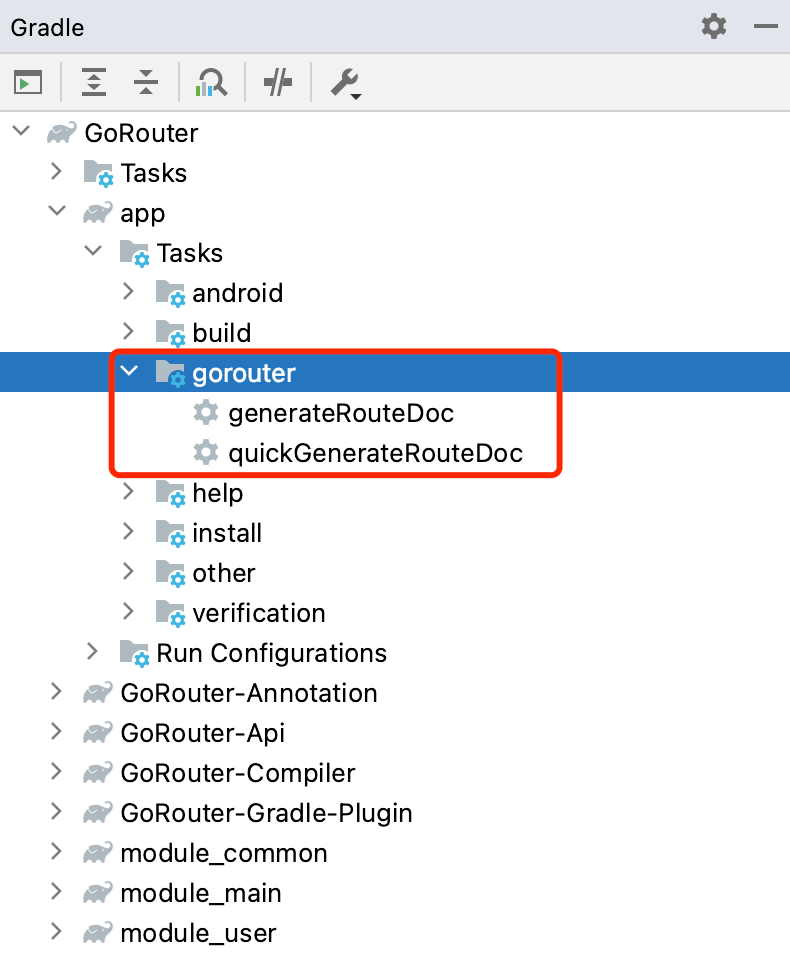
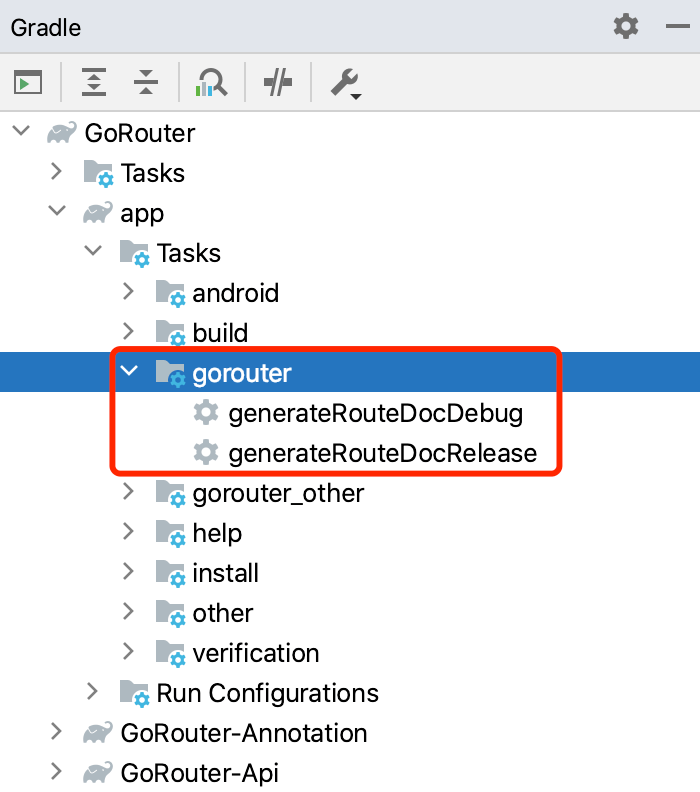
update README.md

Changed region(s): [[0.0, 0.0, 1.0, 1.0], [0.87, 0.0, 0.93, 0.0606], [0.96, 0.0, 0.99, 0.0606]]

diff --git a/GoRouter-Gradle-Plugin/src/main/kotlin/com/wyjson/router/gradle_plugin/helper/AssembleGoRouteHelperCode.kt b/GoRouter-Gradle-Plugin/src/main/kotlin/com/wyjson/router/gradle_plugin/helper/AssembleGoRouteHelperCode.kt
@@ -270,7 +270,8 @@ class AssembleGoRouteHelperCode(private val model: RouteHelperModel) {
             if (param.remark?.isNotEmpty() == true) {
                 itemSetMethod.addJavadoc(param.remark)
             }
-            itemSetMethod.addStatement("\$N.with\$L(\$S, \$N)", FIELD_CARD, param.intentType, name, name)
+            // $L withXXX
+            itemSetMethod.addStatement("\$N.\$L(\$S, \$N)", FIELD_CARD, param.intentType, name, name)
             itemSetMethod.addStatement("return this")
             builderInnerClassMethods.add(itemSetMethod.build())
         }
@@ -311,7 +312,8 @@ class AssembleGoRouteHelperCode(private val model: RouteHelperModel) {
         if (param.remark?.isNotEmpty() == true) {
             paramCode.add("\n// \$N", param.remark)
         }
-        paramCode.add("\n.with\$L(\$S, \$N)", param.intentType, name, name)
+        // $L withXXX
+        paramCode.add("\n.\$L(\$S, \$N)", param.intentType, name, name)
         buildMethod.addParameter(TypeVariableName.get(type), name)
 
         goParamCode.add("\$N, ", name)

diff --git a/GoRouter-Gradle-Plugin/src/main/kotlin/com/wyjson/router/gradle_plugin/launch/MainGradlePluginLaunch.kt b/GoRouter-Gradle-Plugin/src/main/kotlin/com/wyjson/router/gradle_plugin/launch/MainGradlePluginLaunch.kt
@@ -29,7 +29,7 @@ class MainGradlePluginLaunch : Plugin<Project> {
     override fun apply(project: Project) {
         val isApp = project.plugins.hasPlugin(AppPlugin::class.java)
         if (!isApp) {
-            Logger.e(TAG, "Plugin ['com.wyjson.Gorouter'] can only be used under the application, not under the module library invalid!")
+            Logger.e(TAG, "Plugin ['com.wyjson.gorouter'] can only be used under the application, not under the module library invalid!")
             return
         }
         variantList.clear()

diff --git a/GoRouter-Compiler/src/main/java/com/wyjson/router/compiler/doc/DocumentUtils.java b/GoRouter-Compiler/src/main/java/com/wyjson/router/compiler/doc/DocumentUtils.java
@@ -155,22 +155,22 @@ public class DocumentUtils {
                 paramModel.setType(typeStr);
 
                 switch (typeStr) {
-                    case BYTE_PACKAGE, BYTE_PRIMITIVE -> paramModel.setIntentType("Byte");
-                    case SHORT_PACKAGE, SHORT_PRIMITIVE -> paramModel.setIntentType("Short");
-                    case INTEGER_PACKAGE, INTEGER_PRIMITIVE -> paramModel.setIntentType("Int");
-                    case LONG_PACKAGE, LONG_PRIMITIVE -> paramModel.setIntentType("Long");
-                    case FLOAT_PACKAGE, FLOAT_PRIMITIVE -> paramModel.setIntentType("Float");
-                    case DOUBLE_PACKAGE, DOUBLE_PRIMITIVE -> paramModel.setIntentType("Double");
-                    case BOOLEAN_PACKAGE, BOOLEAN_PRIMITIVE -> paramModel.setIntentType("Boolean");
-                    case CHAR_PACKAGE, CHAR_PRIMITIVE -> paramModel.setIntentType("Char");
-                    case STRING_PACKAGE -> paramModel.setIntentType("String");
+                    case BYTE_PACKAGE, BYTE_PRIMITIVE -> paramModel.setIntentType("withByte");
+                    case SHORT_PACKAGE, SHORT_PRIMITIVE -> paramModel.setIntentType("withShort");
+                    case INTEGER_PACKAGE, INTEGER_PRIMITIVE -> paramModel.setIntentType("withInt");
+                    case LONG_PACKAGE, LONG_PRIMITIVE -> paramModel.setIntentType("withLong");
+                    case FLOAT_PACKAGE, FLOAT_PRIMITIVE -> paramModel.setIntentType("withFloat");
+                    case DOUBLE_PACKAGE, DOUBLE_PRIMITIVE -> paramModel.setIntentType("withDouble");
+                    case BOOLEAN_PACKAGE, BOOLEAN_PRIMITIVE -> paramModel.setIntentType("withBoolean");
+                    case CHAR_PACKAGE, CHAR_PRIMITIVE -> paramModel.setIntentType("withChar");
+                    case STRING_PACKAGE -> paramModel.setIntentType("withString");
                     default -> {
                         if (types.isSubtype(typeMirror, parcelableType)) {
-                            paramModel.setIntentType("Parcelable");
+                            paramModel.setIntentType("withParcelable");
                         } else if (types.isSubtype(typeMirror, serializableType)) {
-                            paramModel.setIntentType("Serializable");
+                            paramModel.setIntentType("withSerializable");
                         } else {
-                            paramModel.setIntentType("Object");
+                            paramModel.setIntentType("withObject");
                         }
                     }
                 }

diff --git a/README.md b/README.md
@@ -7,43 +7,46 @@
 
 ## 简介
 
-之前一直在用阿里开源的[ARouter](https://github.com/alibaba/ARouter)项目，因为ARouter多年未更新，ARouter开始有些不太适合了，所以重新开发了这款Android路由框架，同样的API，更多的功能，迁移请参见文末7-10。
+之前一直在用阿里开源的[ARouter](https://github.com/alibaba/ARouter)项目，因为ARouter多年未更新，ARouter开始有些不太适合了，所以重新开发了这款Android路由框架，同样的API，更多的功能，迁移请参见文末8-10。
 
 ## GoRouter和ARouter功能差异对比
 
-| 功能                    | ARouter  | GoRouter  | 描述                                                  |
-| ---------------------- | -------- | --------- | ---------------------------------------------------- |
-| 路由注册方式             | 注解      | 注解、java | GoRouter不仅提供了注解，还能使用java方式注册，参见5-6 |
-| 动态注册拦截器            | 不支持    | 支持      | ARouter只能动态注册路由，不能动态注册拦截器 |
-| 重写跳转URL服务          | 支持      | 不支持     | 可以在`IPretreatmentService`里实现相同功能 |
-| 获取元数据               | 不支持    | 支持       | 有些场景需要判断某个页面当前是否存在等需求，就需要获取页面class等信息，参见5-1 |
-| inject(T)              | 单一      | 更多       | ARouter不能在`onNewIntent()`方法里使用，也不能检查`required`，GoRouter提供了更多使用场景，参见4-2 |
-| 按组分类、按需初始化       | 支持      | 支持       | ARouter不允许多个module中存在相同的分组，GoRouter允许 |
-| 模块Application生命周期   | 不支持    | 支持       | 主动分发到业务模块，让模块无侵入的获取Application生命周期，参见6-1 |
-| 路由页面Event            | 不支持    | 支持       | 页面事件解耦,提供更多、更方便的API，参见5-10 |
+| 功能                      | ARouter  | GoRouter  | 描述                                                  |
+| ------------------------ | -------- | --------- | ---------------------------------------------------- |
+| 路由注册方式               | 注解      | 注解、java | GoRouter不仅提供了注解，还能使用java方式注册，参见5-6 |
+| 动态注册拦截器              | 不支持    | 支持      | ARouter只能动态注册路由，不能动态注册拦截器 |
+| 重写跳转URL服务            | 支持      | 不支持     | 可以在`IPretreatmentService`里实现相同功能 |
+| 获取元数据                 | 不支持    | 支持       | 有些场景需要判断某个页面当前是否存在等需求，就需要获取页面class等信息，参见5-1 |
+| inject(T)                | 单一      | 更多       | ARouter不能在`onNewIntent()`方法里使用，也不能检查`required`，GoRouter提供了更多使用场景，性能更好，参见4-2 |
+| 按组分类、按需初始化         | 支持      | 支持       | ARouter不允许多个module中存在相同的分组，GoRouter允许 |
+| 生成路由文档                | 支持     | 支持       | ARouter会生成多个模块文档,GoRouter提供Gradle任务一键生成项目总文档,更加丰富，参见5-9 |
+| **模块Application生命周期** | 不支持    | 支持       | 主动分发到业务模块，让模块无侵入的获取Application生命周期，参见6-1 |
+| **路由页面事件**            | 不支持    | 支持       | 页面事件解耦，提供更多、更方便的API，参见5-10 |
+| **自动生成路由帮助类**       | 不支持    | 支持       | 调用更方便，不需要知道目标页面参数名和参数类型、是否必传等元素，真正做到了闭眼调用也不会出错，参见7-1 |
 
 ***
 
 ## 一、功能介绍
 
-1.  **支持直接解析标准URL进行跳转，并自动注入参数到目标页面中**
-2.  **支持多模块工程使用**
-3.  **支持添加多个拦截器，自定义拦截顺序**
-4.  **支持依赖注入，可单独作为依赖注入框架使用**
-5.  **支持InstantRun**
-6.  **支持MultiDex**(Google方案)
+1.  支持直接解析标准URL进行跳转，并自动注入参数到目标页面中
+2.  支持多模块工程使用
+3.  支持添加多个拦截器，自定义拦截顺序
+4.  支持依赖注入，可单独作为依赖注入框架使用
+5.  支持InstantRun
+6.  支持MultiDex(Google方案)
 7.  映射关系按组分类、多级管理，按需初始化
 8.  支持用户指定全局降级与局部降级策略
 9.  页面、拦截器、服务等组件均自动注册到框架
 10. 支持多种方式配置转场动画
 11. 支持获取Fragment
-12. 完全支持Kotlin以及混编(参见7-1)
-13. **支持第三方 App 加固**
-14. **支持生成路由文档**
+12. 完全支持Kotlin以及混编(参见8-1)
+13. 支持第三方 App 加固
+14. 支持一键生成路由文档
 15. 支持增量编译
 16. 支持动态注册路由、路由组、服务和拦截器
 17. **支持模块Application生命周期**
-18. **支持路由页面Event**
+18. **支持路由页面事件**
+19. **自动生成路由帮助类**
 
 ## 二、典型应用
 
@@ -68,10 +71,10 @@ dependencyResolutionManagement {
 dependencies {
     api 'com.github.wyjsonGo.GoRouter:GoRouter-Api:2.3.5'
 }
-// Kotlin配置参见7-1
+// Kotlin配置参见8-1
 ```
 
-##### 2.  在module项目下添加注解处理器依赖和配置 (如只使用java方式注册,可忽略此步骤)
+##### 2.  在module项目下添加注解处理器依赖和配置 (如只使用java方式注册,不使用注解,可忽略此步骤)
 
 ```groovy
 android {
@@ -126,7 +129,7 @@ GoRouter.getInstance().build("/test/fragment")
             .go(this);
 ```
 
-##### 6.  使用Gradle插件实现路由表的自动加载，支持Gradle8.0+ (可选)
+##### 6.  使用Gradle插件实现路由表的自动加载，支持Gradle8.0+
 
 ```groovy
 // 项目根目录下的settings.gradle
@@ -163,7 +166,7 @@ plugins {
 ##### 1.  通过URL跳转
 
 ```java
-// 新建一个Activity用于监听Scheme事件,之后直接把url传递给GoRouter即可
+// 新建一个Activity用于监听Scheme事件,之后直接把url传递给GoRouter即可(消息栏和外部所有URL跳转都可以统一用这个Activity接收后分发跳转)
 public class SchemeFilterActivity extends Activity {
     @Override
     protected void onCreate(Bundle savedInstanceState) {
@@ -614,7 +617,7 @@ GoRouter.getInstance().inject(this);
 
 ##### 7.  自定义模块路由加载
 
-如不使用gradle插件[3-6]进行自动注册，也不想走默认扫描dex的方式，可以不调用`GoRouter.autoLoadRouteModule(this)`方法，但需要自行调用模块生成的路由加载类。
+如不使用Gradle插件[3-6]进行自动注册，也不想走默认扫描dex的方式，可以不调用`GoRouter.autoLoadRouteModule(this)`方法，但需要自行调用模块生成的路由加载类。
 模块项目里至少使用一条注解`@Route`、`@Service`、`@Interceptor`，就会生成对应路由表的加载类。路由表加载类命名规则会根据`GOROUTER_MODULE_NAME`设置的模块名称转换成大写驼峰命名+`$$Route.java`，所有模块生成的路由表加载类都会放到`com.wyjson.router.module.route`包下。
 例如模块名称`module_user`会生成`ModuleUser$$Route.java`
 
@@ -636,7 +639,7 @@ plugins {
 // 不写下面的配置，默认android.buildTypes任务全部执行自动注册。
 GoRouter {
     // 允许执行自动注册任务的集合
-    runBuildTypes "release", "sandbox", "more"
+    runAutoRegisterBuildTypes "release", "sandbox", "more"
 }
 ```
 
@@ -645,22 +648,15 @@ GoRouter {
 使用gradle命令一键生成路由文档
 
 ```sh
-./gradlew generateRouteDoc
-# 或使用快速生成
-./gradlew quickGenerateRouteDoc
+./gradlew generateRouteDocDebug
 ```
 当然你也可以使用图形页面执行任务
 
 <img src="https://github.com/wyjsonGo/GoRouter/blob/master/screenshot/gradle_task_generate_router_doc.png" width="40%" />
 
-两条任务的区别是:
+生成的路由文档会保存到项目下的`/app/项目名-变体名-route-doc.json`,Demo示例[/app/GoRouter-release-route-doc.json](https://github.com/wyjsonGo/GoRouter/blob/master/app/GoRouter-release-route-doc.json)
 
-*   执行`generateRouteDoc`任务会先自动触发`build`任务生成各个模块子路由文档,在触发生成最终的路由文档。
-*   执行`quickGenerateRouteDoc`任务会直接去获取子模块路由文档，生成最终的路由文档(如果你已经运行过项目,可以使用此任务快速得到结果)。
-
-生成的路由文档会保存到项目下的`/app/项目名-route-doc.json`,Demo示例[/app/GoRouter-route-doc.json](https://github.com/wyjsonGo/GoRouter/blob/master/app/GoRouter-route-doc.json)
-
-##### 10.  路由页面Event
+##### 10.  路由页面事件
 
 在之前跨模块页面事件通知的流程是，使用EventBus库，在module_common模块里定义event类，页面注册订阅者接收事件，实现事件处理并注解标识，页面销毁解除注册。
 这一套流程下来步骤很多，会出现很多event类，而且这些类只在一个页面订阅，还要去module_common模块里定义，发布基础数据类型，会导致所有订阅者都会收到，也无法检测页面生命周期状态。
@@ -712,7 +708,7 @@ GoRouter.getInstance().unRegisterEvent(this, String.class, observer);
 *   `postEvent()`方法支持主线程和子线程调用。多次调用的情况下，在页面生命周期处于`onPause`下，`registerEvent()`方法只会收到最后一次数据，`registerEventForever()`会全部收到。在页面生命周期处于`onResume`下，两个方法会收到全部数据。
 *   `unRegisterEvent()`方法无需主动调用，框架会在页面销毁时自动解除订阅，除非你想立刻取消订阅。
 *   页面可以订阅多个相同类型的事件和多个不同类型的事件。
-*   路由页面Event功能内部使用`LiveData`。
+*   路由页面事件功能内部使用`LiveData`。
 
 Demo示例[EventActivity.java](https://github.com/wyjsonGo/GoRouter/blob/master/module_main/src/main/java/com/wyjson/module_main/activity/EventActivity.java)
 
@@ -763,7 +759,33 @@ Demo示例[MyApplication.java](https://github.com/wyjsonGo/GoRouter/blob/master/
 *   指定模块Application优先级，可以重写`setPriority()`方法，它将按照从大到小的执行顺序执行。
 *   `IApplicationModule`接口不仅提供了`onCreate`、`onLoadAsync`方法，还提供了`onTerminate`、`onConfigurationChanged`、`onLowMemory`、`onTrimMemory`方法，如需监听记得在主Application中添加他们的分发方法`GoRouter.callAMOnCreate()`、`GoRouter.callAMOnTerminate()`、`GoRouter.callAMOnConfigurationChanged(newConfig)`、`GoRouter.callAMOnLowMemory()`、`GoRouter.callAMOnTrimMemory(level)`。
 
-## 七、其他
+
+## 七、自动生成路由帮助类
+
+开启此功能可以大幅提升开发效率，避免错误调用的情况。不需要知道目标页面参数名和参数类型、是否必传等元素，通过帮助类提供的链式调用方便的实现路由的跳转，服务的获取。
+
+##### 1.  添加配置
+
+```groovy
+// app目录下的build.gradle添加配置
+plugins {
+    ...
+    id 'com.wyjson.gorouter'
+}
+GoRouter {
+    ...
+    // 指定根模块项目名称,开启自动生成路由帮助类功能
+    helperToRootModuleName "module_common"
+}
+```
+
+指定`helperToRootModuleName`配置参数后会开启自动生成路由帮助类功能，这个参数需要指定一个根模块项目名(指定的这个模块项目只要保证其他业务模块都能调用到，并且页面传递参数用到的实体类也能引用到就可以，推荐指向`module_common`模块或者新建一个模块单独存放这些生成的路由帮助类)。
+
+##### 2.  使用
+
+:::TODO 未写完
+
+## 八、其他
 
 ##### 1.  Kotlin项目中的配置方式
 
